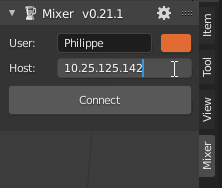
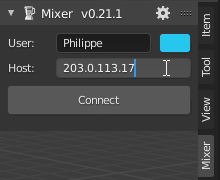
doc: use rfc5737 public adrress

diff --git a/docs/collaborate/internet.rst b/docs/collaborate/internet.rst
@@ -24,11 +24,13 @@ Mixer has been reported to work successfully with other VPN software:
 With port forwarding
 --------------------
 
+.. use addresses from https://tools.ietf.org/html/rfc5737
+
 Collaborating over the Internet without a VPN may require to setup port forwarding and is more involved.
 
 On the network that hosts the server
 ^^^^^^^^^^^^^^^^^^^^^^^^^^^^^^^^^^^^
-The user who creates the server must setup port forwarding on his router:
+The user who creates the server must setup a TCP port forwarding rule on his router:
 
 * on the machine that hosts the server:
 
@@ -36,16 +38,18 @@ The user who creates the server must setup port forwarding on his router:
    * :ref:`find the IP address<ip-address>` of the machine that hosts the server, say ``192.168.0.10``
 
 * on the router:
-
-   * find the *public* address of the router, say ``10.25.125.142``
-   * setup a port forwarding rule to the machine that hosts the server (``192.168.0.10`` in our example),
-     and to the Mixer port (``12800`` by default).
+  
+   * find the *public* IP v4 address of the router using the router administration tool or http://whatismyip.host/.
+     You will need to share this address with other participants
+     Say you found the public IP v4 address of your router is ``203.0.113.17``
+   * setup a TCP port forwarding rule to the machine that hosts the server (``192.168.0.10`` in our example),
+     and the TCP port used by Mixer (``12800`` by default).
    * check or edit the value of the *public* forwarded port:
   
      * If the public forwarded port can be set to ``12800``, use this value.
-       This setup creates a forwarding rule from ``10.25.125.142:12800`` to ``192.168.0.10:12800``.
+       This setup creates a TCP port forwarding rule from ``203.0.113.17:12800`` to ``192.168.0.10:12800``.
      * If the public forwarded port cannot be set to ``12800``, configure it to a permitted value, say ``9090``.
-       This setup creates a forwarding rule from ``10.25.125.142:9090`` to ``192.168.0.10:12800``
+       This setup creates a TCP port forwarding rule from ``203.0.113.17:9090`` to ``192.168.0.10:12800``
 
 
 On the other users locations
@@ -53,21 +57,21 @@ On the other users locations
 Start Blender and open the Mixer panel in the 3D editor.
 
 * In the **Host** text box, replace ``localhost`` by  the *public* address of the router on the server location,
-  (``10.25.125.142`` in our example).
+  (``203.0.113.17`` in our example).
 
 .. image:: /img/connect-port-forward.png
    :align: center
 
 * *If the public forwarded port is not* ``12800``:
  
-   * Open the addon preferences 
+   * Open the Mixer preferences using the Mixer panel title bar setings icon
   
-   .. image:: /img/open-preferences.png
+   .. image:: /img/open-preferences-internet.png
       :align: center
 
-   * in the **Port** box type the public forwarded port number, ``9090`` in our example
+   * in the **Port** test box type the public forwarded port number, ``9090`` in our example
   
-   .. image:: /img/preferences-port.png
+   .. image:: /img/preferences-internet-port.png
         :align: center
 
    * close the preferences windows
